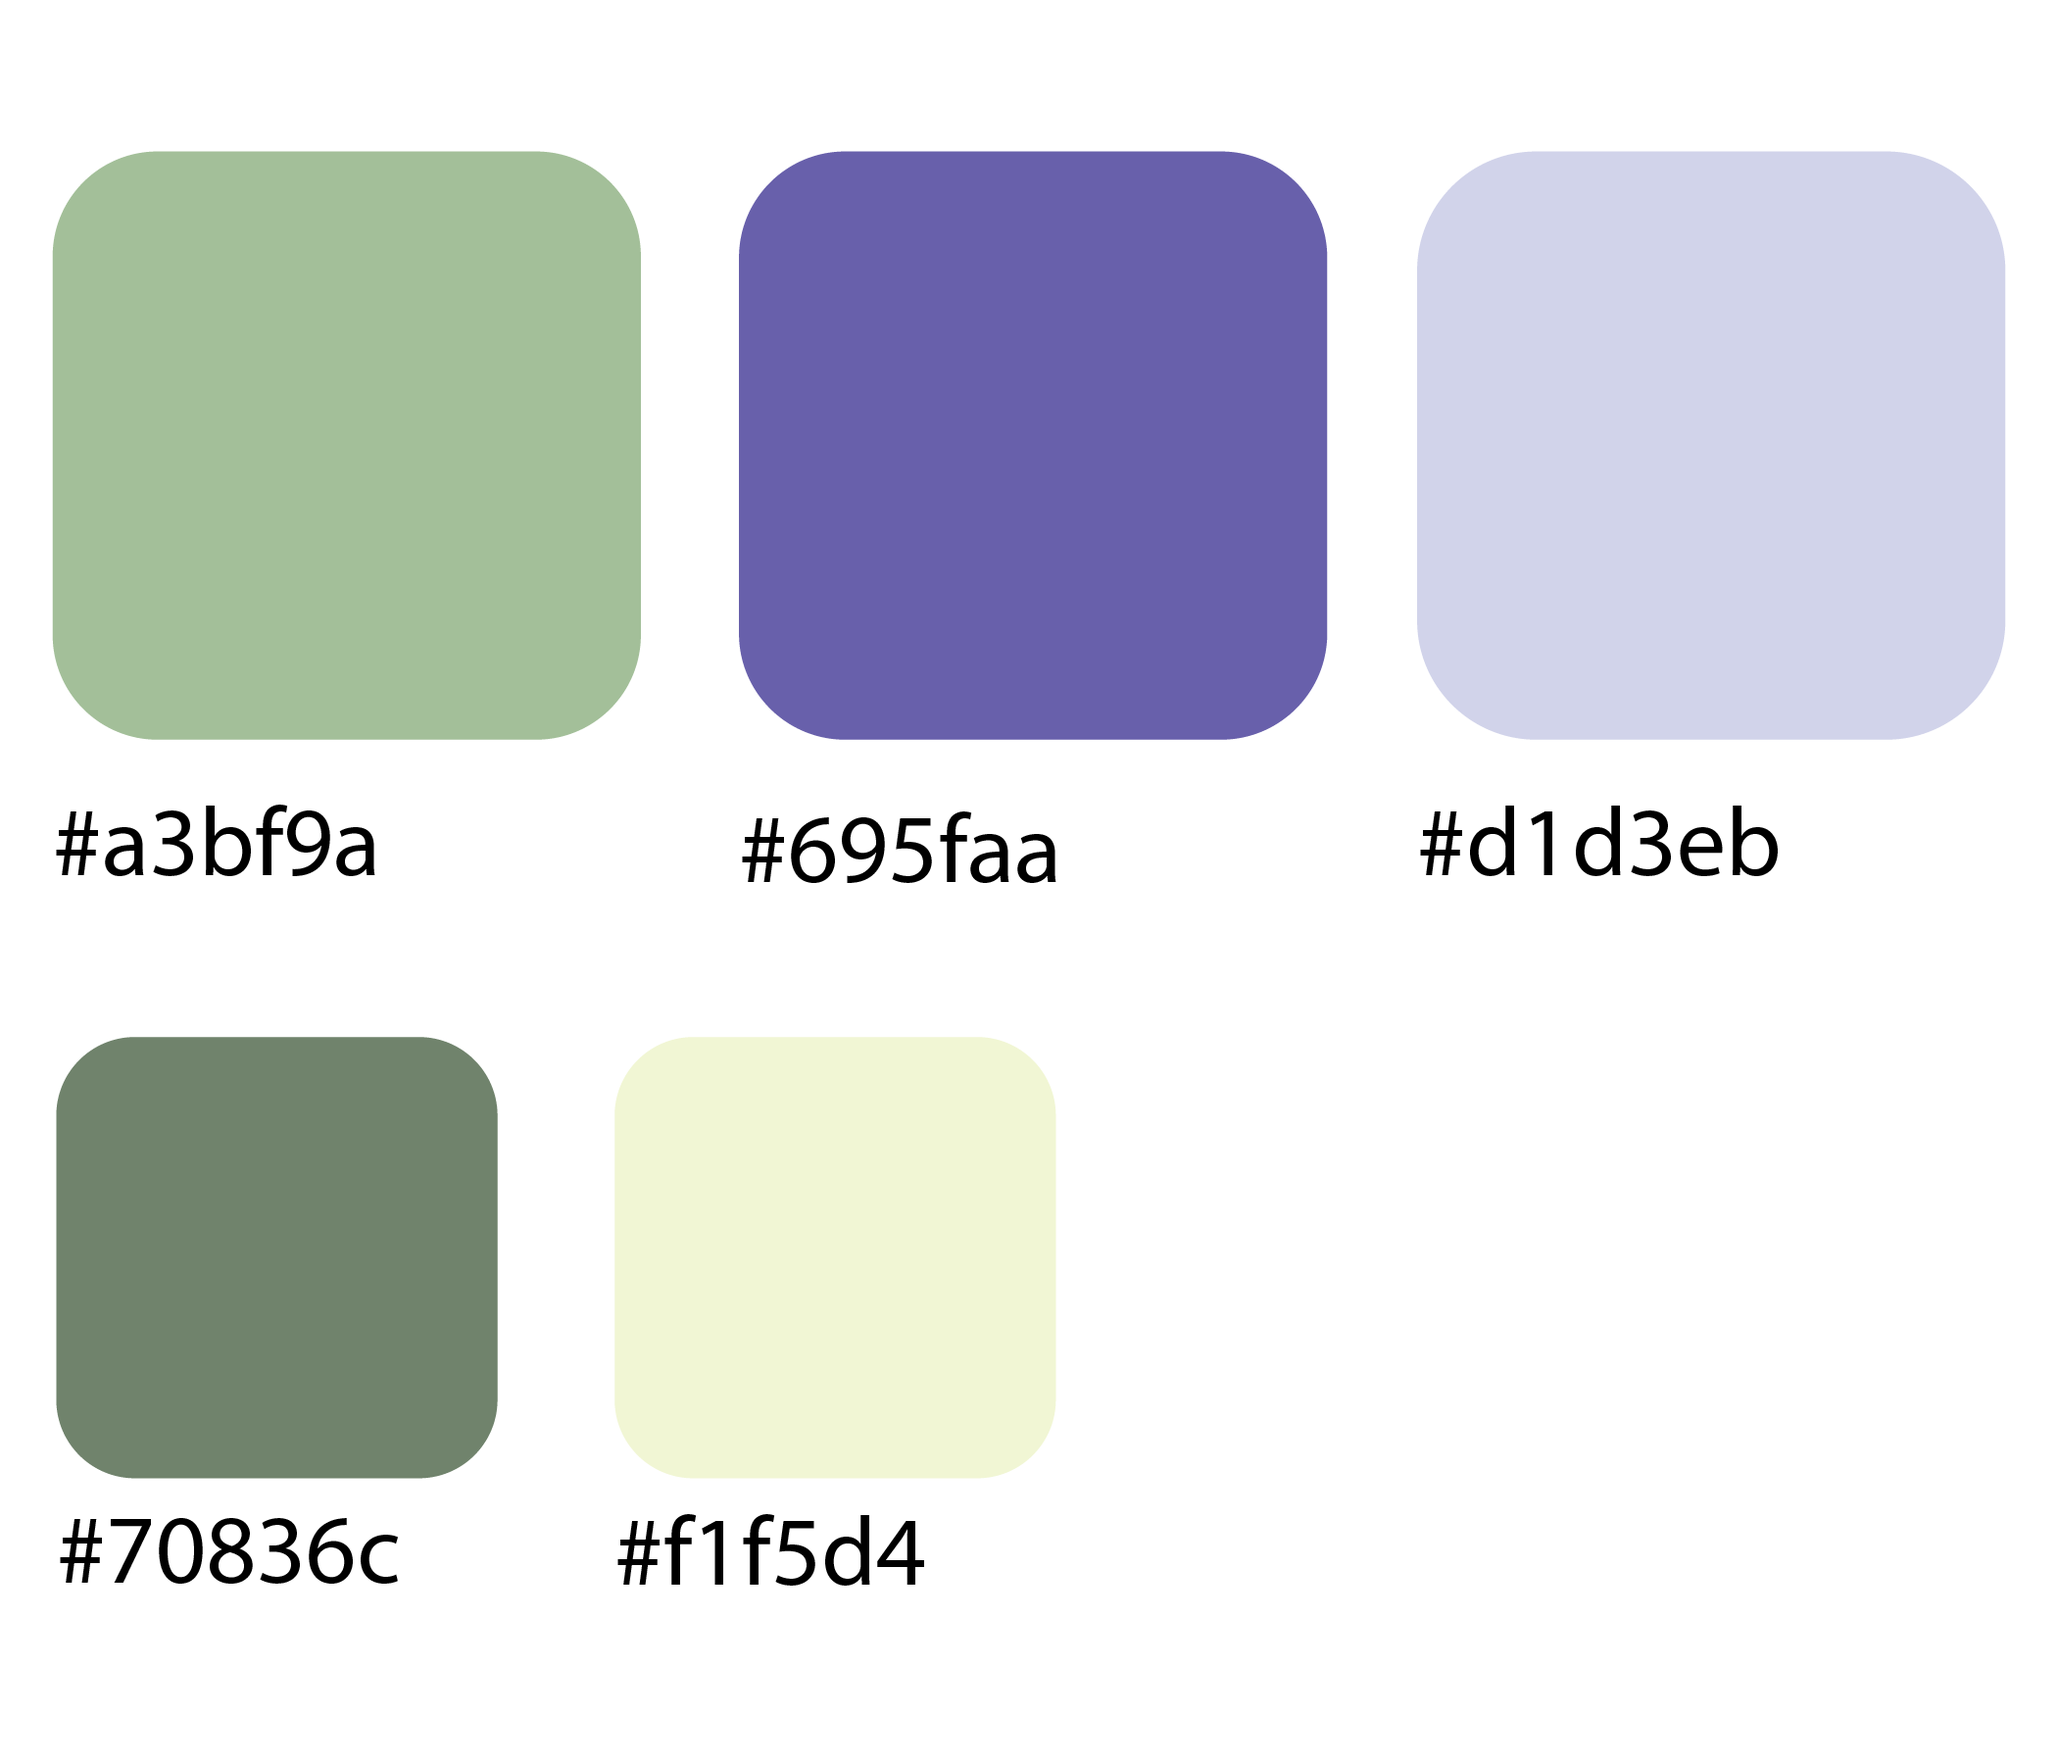
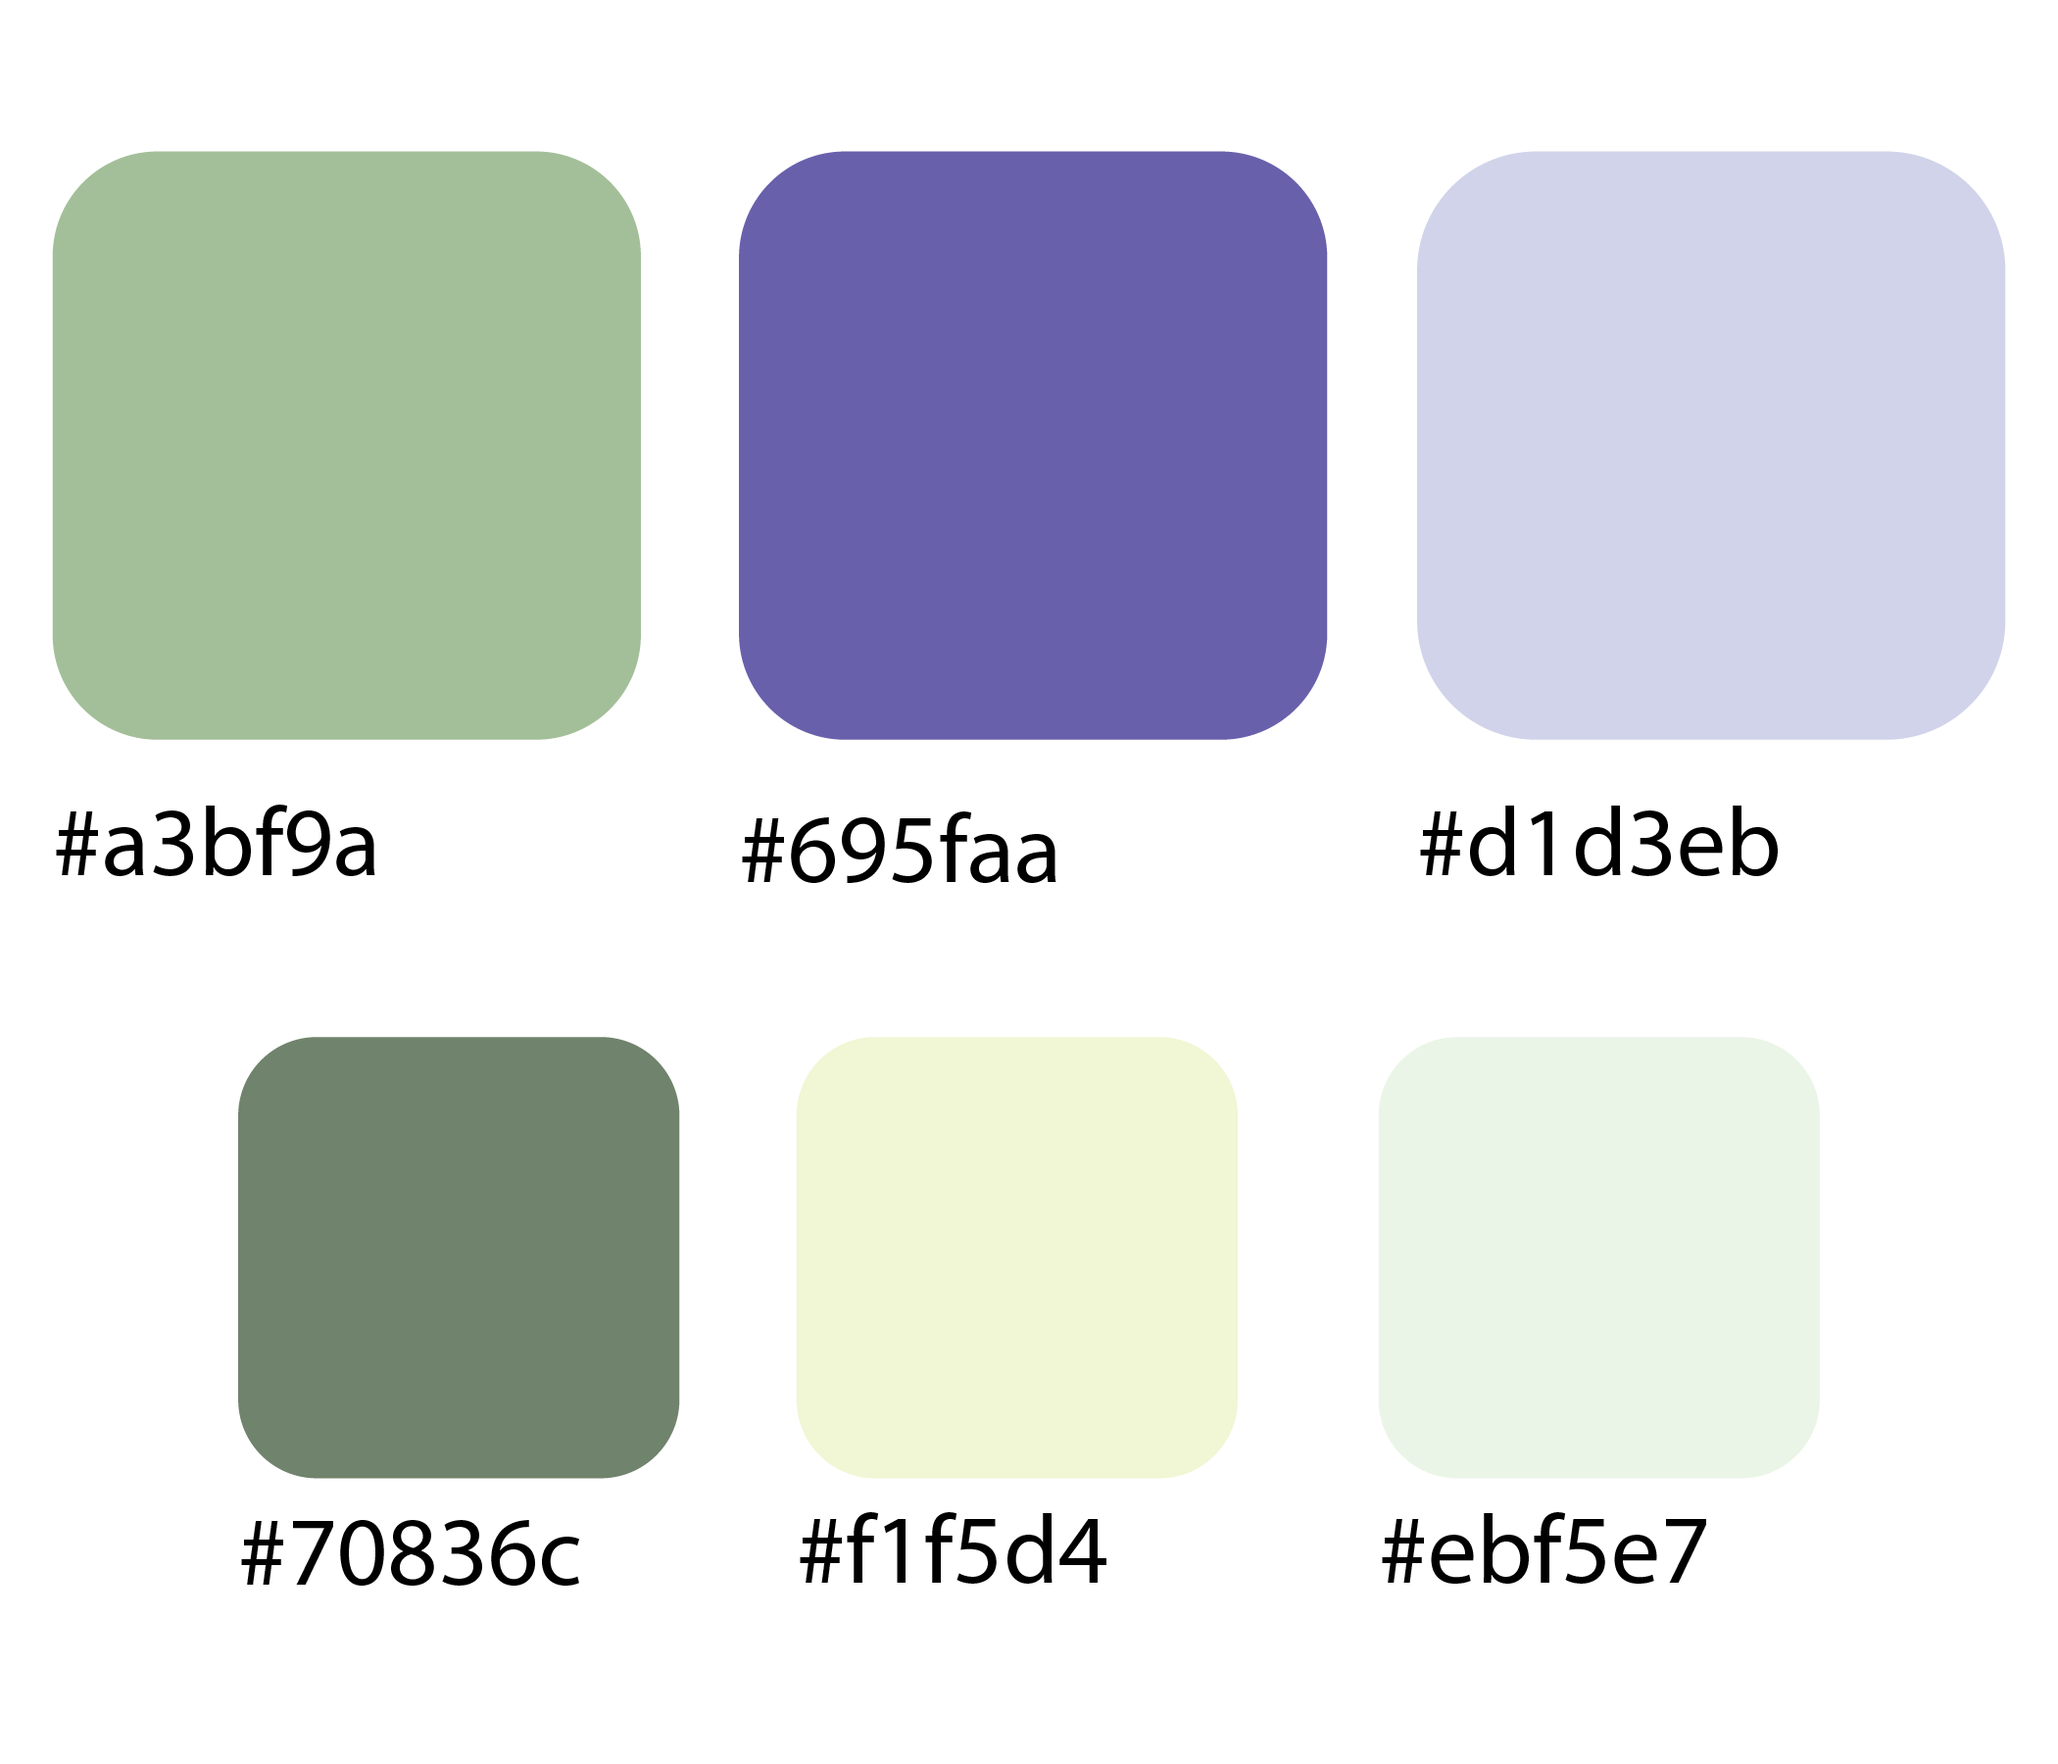
poptcha: color palette & typography fixed

Changed region(s): [[0.0, 0.56, 0.5571, 0.9022], [0.4952, 0.56, 0.619, 0.84], [0.65, 0.84, 0.8357, 0.9022]]

diff --git a/poptcha.html b/poptcha.html
@@ -96,11 +96,11 @@
 
                     <section>
                         <h2>Color Palette</h2>
-                        <img src="images/poptcha_color_palette.png" width="90%" class="expandableImage">
+                        <img src="images/poptcha_color_palette.png"  class="expandableImage">
                     </section>
                     <section>
                         <h2>Typography</h2>
-                        <img src="images/poptcha_typography.png" width="70%" class="expandableImage">
+                        <img src="images/poptcha_typography.png"  class="expandableImage">
                     </section>
 
                 </div>
